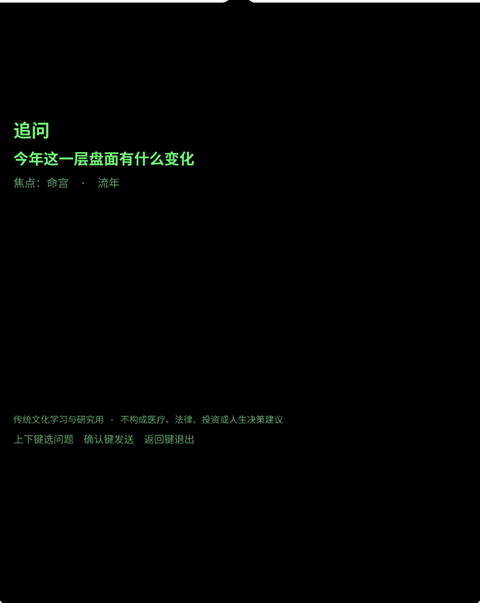
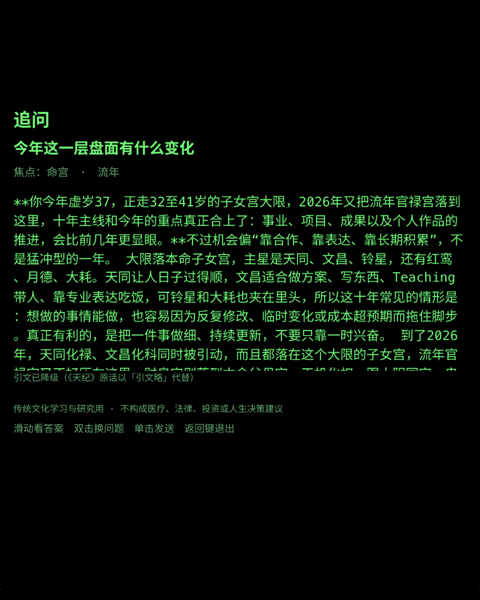
fix(rokid): 首启脚本与两张 Studio 截图素材里的旧键位文案清干净
`simulate-first-launch.mjs` 里同样是「确认键听解读　{{navHint}}」的重复前缀，
它渲染出的 board-first-launch.png 里**烘焙着被商店驳回的那套映射**
「确认键听解读　左右选宫　上下切层」—— 这张图是要上传到提审页的预览素材。

sim-reading.png / sim-ask.png 是 2026-11-08 从 AIUI Studio 的 Rokid 运行时
截的，底部提示行还是旧口径（「确认键追问　返回键退出」「确认键发送」），
同样属于提审素材。已用当前工程重新截取：
- sim-reading.png：解读浮层（真实后端 13 维正文 + 引文已降级），提示行
  「滑动翻页　单击追问　返回键退出」；
- sim-ask.png：追问浮层（真实后端回答），提示行
  「滑动翻答案　双击换问题　单击发送　返回键退出」。

回归：把「预览素材脚本不得含旧键位」这条断言扩到 simulate-first-launch.mjs，
全量 253 例全绿。

Changed region(s): [[0.0312, 0.18, 0.9688, 0.75], [0.5312, 0.0, 1.0, 0.03], [0.0, 0.0, 0.4688, 0.03]]

diff --git a/tests/rokid_preview.test.ts b/tests/rokid_preview.test.ts
@@ -164,6 +164,7 @@ export const suite: SuiteFn = async (t) => {
     const scripts = [
       path.join(AGENT_DIR, 'scripts/render-board-preview.mjs'),
       path.join(AGENT_DIR, 'scripts/render-preview-video.mjs'),
+      path.join(AGENT_DIR, 'scripts/simulate-first-launch.mjs'),
     ];
     for (const p of scripts) {
       if (!existsSync(p)) continue;
